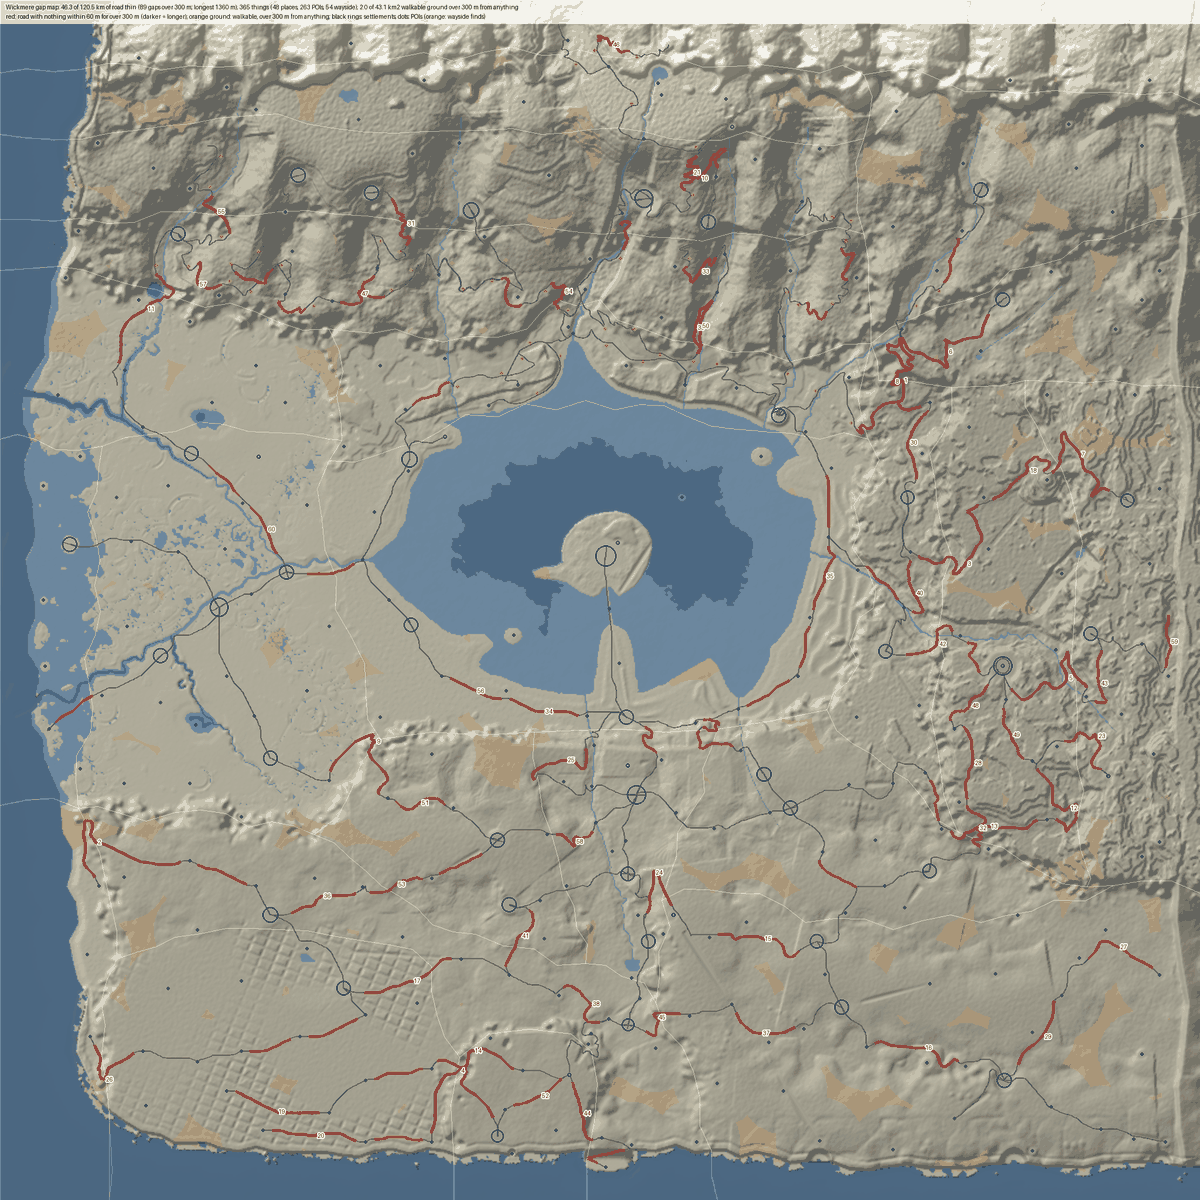
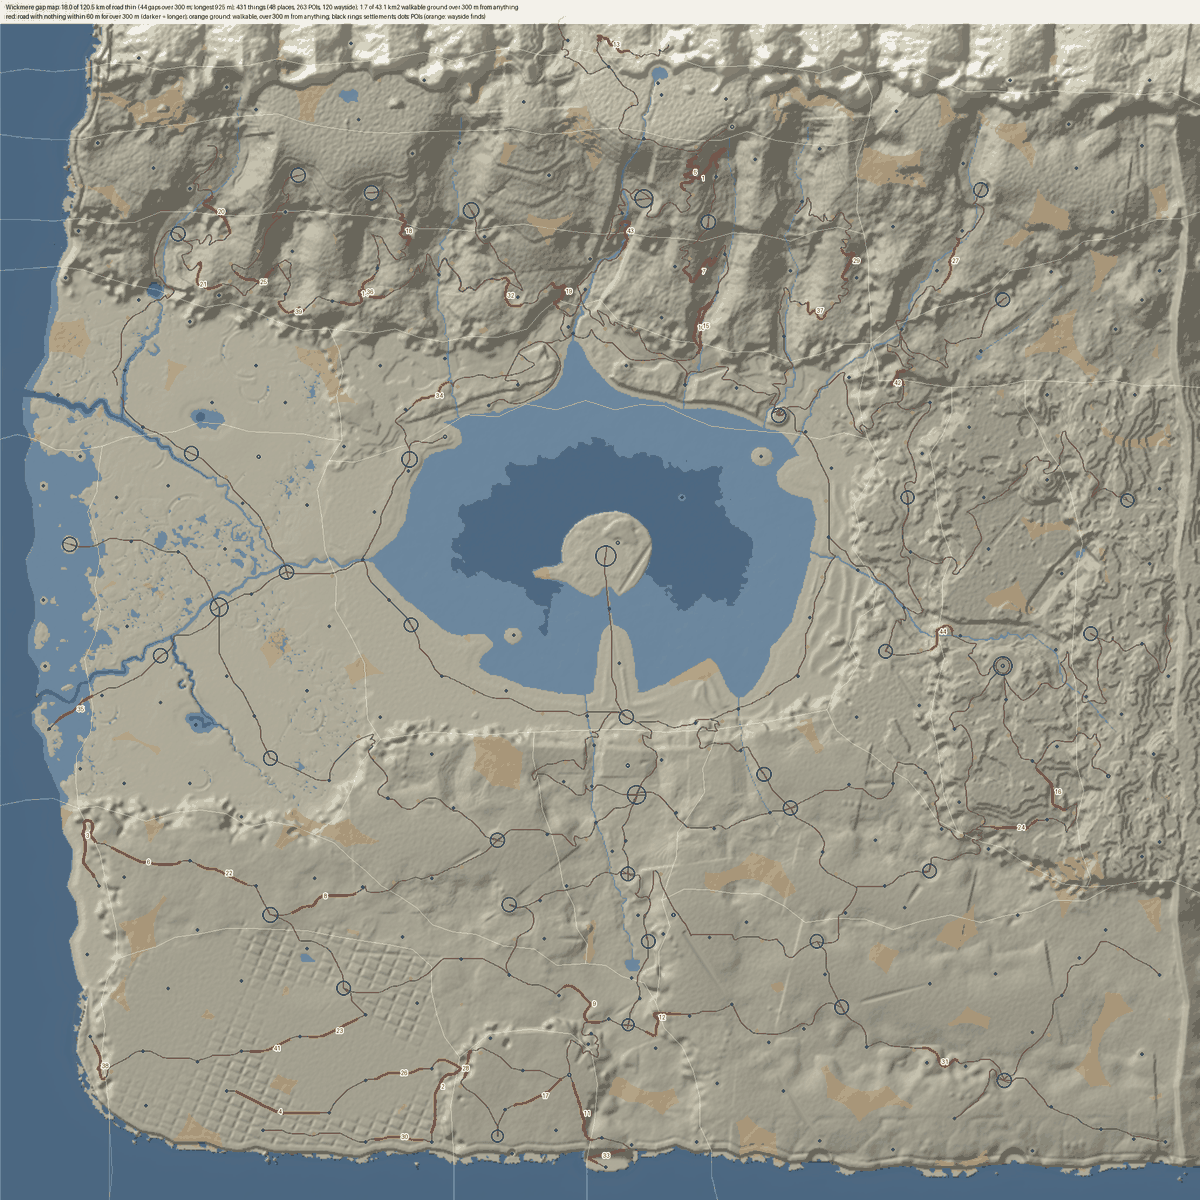
Waves 2 to 4 of the wayside finds are verified: 120 finds, and 18.0 of 120.5 km of road thin
Waves 2 to 4 (a35aaa77, 5a21f557, 99d892bd) add 66 finds:
- 30 in the Briarwold, in the Woodfolk's voice;
- 29 in Hearthvale, on the Mere's shores and in Sedgemire;
- 7 on Cinderlea's longest empty roads, one to a road, and the Dreughow road.
With wave 1 there are 120 finds, all in kinds the kit builds. They leave 108 notes and 12
objects, and 16 stand foes up.

The gap map on the tracked world (the one-minute rule): 65.4 -> 18.0 km of 120.5 km thin,
100 -> 44 gaps over 300 m, the longest 1680 -> 925 m, empty country 2.3 -> 1.7 km2. By region:
Skerrow 19.6 -> 7.9 km, the Briarwold 15.3 -> 1.7, Brightwater 10.1 -> 0.3, Cinderlea 9.8 -> 7.4,
Hearthvale 7.1 -> 0.3, Sedgemire 3.4 -> 0.3. What stays thin is the dale switchbacks, where no
ground takes a pad, and the Ash Heath and the Ashgrid, which are meant to be quiet.

Each wave's left-out sites and why are in ATLAS section 17 and PROGRESS. Passing on all four
waves: the test_poi (64), test_map_quest (11), test_content (43), test_books (6) and
test_quest_items (13) filters; check_atlas with 0 errors; poi_hooks --check with 383 rows and 0
differing; the atlas tests with test_gap_map (44). docs/atlas/gap_map.png is the map after wave 4.

Claude-Session: https://claude.ai/code/session_0112mWM76VHFrF6Lkz5ygd61

diff --git a/PROGRESS.md b/PROGRESS.md
@@ -7215,3 +7215,74 @@ Mill has moved (e21615a3).
   The old 28 are gone, including every one over 25 m. These four want the batch-4 4096 build's
   `test_sightlines` before anything is moved.
 
+
+### Waves 2 to 4: the Briarwold, Hearthvale, the Mere's shores, Sedgemire, and a light touch on Cinderlea
+
+- **Wave 2** (a35aaa77): 30 finds in the Briarwold, in the Woodfolk's voice (custom and not law,
+  leave never asked, moss graves, tally-sticks, oiled stones, the Hart-Knights' mourning). Two of
+  them stand on the Wold road's Vale edge. Two proposed sites were left out, each a second find
+  within 145 m on the Moot road by the Antler Chapel.
+- **Wave 3** (5a21f557): 29 finds.
+  - Hearthvale: the Wardens' Roll and the quiet villages, the Larkbourne Boys, the Chalk Hound.
+  - The Mere's shores: the weighbridge, the laundresses, the rafters, the fallen water.
+  - Sedgemire: lanterns for the drowned, the Tide account's turning.
+  - One site had its name clash with an existing location (the Roll Stone) and was renamed the
+    Quiet Mile.
+- **Wave 4** (99d892bd): 7 finds. Cinderlea gets finds only on roads empty for over about 470 m,
+  one to a road, and one more goes on the Dreughow road. Left out:
+  - a site 113 m from the One Poppy, which keeps its square kilometre;
+  - two more on the Ash Heath's West Walk road;
+  - one on the Grey Hedge's ground and one among the Glass Bridge's crowd;
+  - two within 125 m of wave-1 finds, and one on Rudd Beck's bank.
+
+**All four waves:** 120 finds.
+
+| Kind | Finds |
+|---|---|
+| camps | 28 |
+| waystones | 20 |
+| shrines | 20 |
+| vistas | 17 |
+| ruins | 13 |
+| standing stones | 10 |
+| caves | 5 |
+| shielings | 3 |
+| wrecks | 2 |
+| giant skulls | 2 |
+
+They leave 108 notes and 12 objects, and 16 of them stand foes up.
+
+| | thin road (of 120.5 km) | gaps over 300 m | longest | empty country |
+|---|---|---|---|---|
+| before | 65.4 km | 100 | 1680 m | 2.3 km² |
+| wave 1 | 46.3 km | 89 | 1360 m | 2.0 km² |
+| wave 2 | 32.9 km | 71 | 1248 m | 1.9 km² |
+| wave 3 | 20.5 km | 45 | 1248 m | 1.7 km² |
+| wave 4 | 18.0 km | 44 | 925 m | 1.7 km² |
+
+By region, thin road before and after:
+
+| Region | before | after |
+|---|---|---|
+| Skerrow | 19.6 km | 7.9 km |
+| the Briarwold | 15.3 km | 1.7 km |
+| Brightwater | 10.1 km | 0.3 km |
+| Cinderlea | 9.8 km | 7.4 km |
+| Hearthvale | 7.1 km | 0.3 km |
+| Sedgemire | 3.4 km | 0.3 km |
+
+**What is still thin** is mostly Skerrow's dale switchbacks, in runs of 300–500 m where no ground
+takes a pad, plus the Ash Heath and the Ashgrid, which are meant to be quiet. The empty country
+off the roads (1.7 km², in blobs of at most 0.09 km²) wants finds off the road. Those should be
+the fold, the cairn and the tally-post when settlements builds them.
+
+The atlas preview's density figures went from 320 locations before any find to 440, 6.8 to 9.3 a walkable km²,
+and a nearest-location mean of 180 to 159 m (ATLAS §2). docs/atlas/gap_map.png is the map after
+wave 4.
+
+**Checked on waves 1 to 4 together (99d892bd):**
+- The Godot filters, each 0 failed with 0 content problems: `test_poi` (64), `test_map_quest` (11),
+  `test_content` (43), `test_books` (6) and `test_quest_items` (13).
+- `check_atlas`: 0 errors.
+- `poi_hooks --check`: 383 rows, 0 differ, 0 bare.
+- The atlas tests and test_gap_map: 44 passed.
